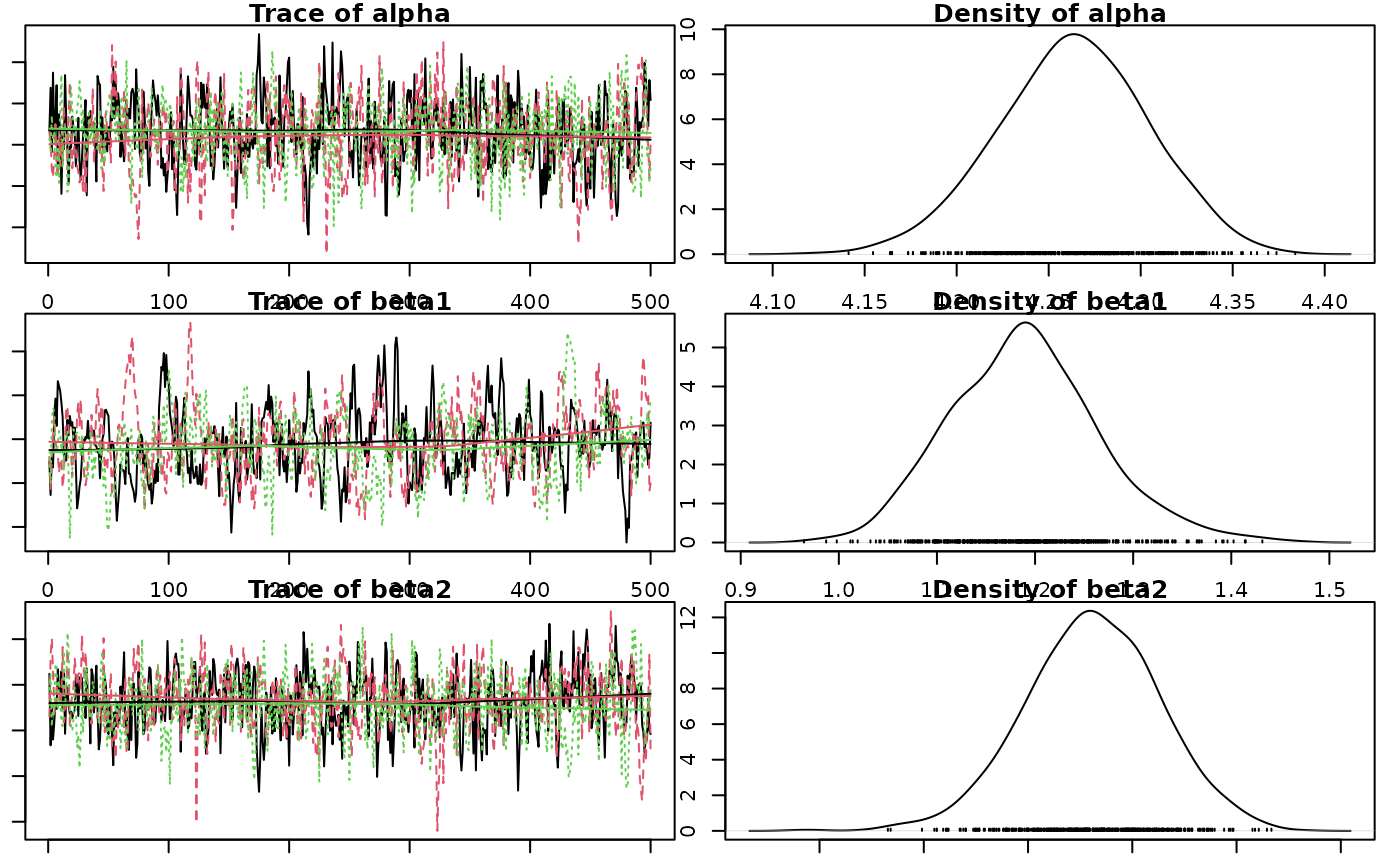
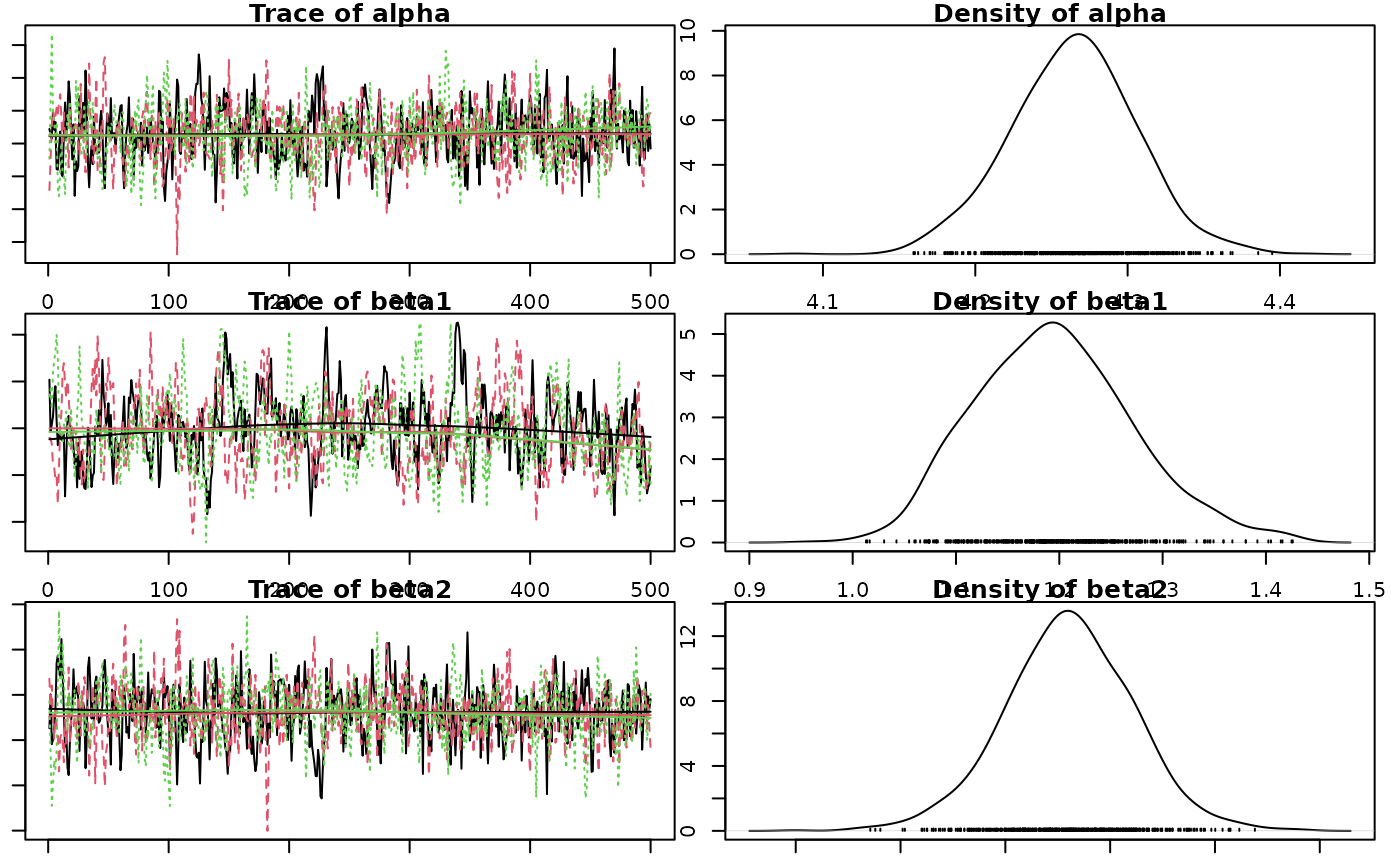
Deploying to gh-pages from @ poissonconsulting/jmbr@50605fdfb261132f518f0eca22c8e7b3936c75ee 🚀

diff --git a/articles/jmbr.html b/articles/jmbr.html
@@ -293,14 +293,14 @@ value and discarding all other values.</p>
 <span><span class="co">#&gt; <span style="color: #949494;"># A tibble: 1 × 8</span></span></span>
 <span><span class="co">#&gt;       n     K nchains niters nthin   ess  rhat converged</span></span>
 <span><span class="co">#&gt;   <span style="color: #949494; font-style: italic;">&lt;int&gt;</span> <span style="color: #949494; font-style: italic;">&lt;int&gt;</span>   <span style="color: #949494; font-style: italic;">&lt;int&gt;</span>  <span style="color: #949494; font-style: italic;">&lt;int&gt;</span> <span style="color: #949494; font-style: italic;">&lt;int&gt;</span> <span style="color: #949494; font-style: italic;">&lt;int&gt;</span> <span style="color: #949494; font-style: italic;">&lt;dbl&gt;</span> <span style="color: #949494; font-style: italic;">&lt;lgl&gt;</span>    </span></span>
-<span><span class="co">#&gt; <span style="color: #BCBCBC;">1</span>    40     6       3    500    10   237  1.01 TRUE</span></span>
+<span><span class="co">#&gt; <span style="color: #BCBCBC;">1</span>    40     6       3    500    10   291  1.03 TRUE</span></span>
 <span><span class="co">#&gt; Warning in value[[3L]](cond): beep() could not play the sound due to the following error:</span></span>
 <span><span class="co">#&gt; Error in play.default(x, rate, ...): no audio drivers are available</span></span>
 <span><span class="va">analysis</span> <span class="op">&lt;-</span> <span class="fu"><a href="https://rdrr.io/pkg/embr/man/reanalyse.html" class="external-link">reanalyse</a></span><span class="op">(</span><span class="va">analysis</span><span class="op">)</span></span>
 <span><span class="co">#&gt; <span style="color: #949494;"># A tibble: 1 × 8</span></span></span>
 <span><span class="co">#&gt;       n     K nchains niters nthin   ess  rhat converged</span></span>
 <span><span class="co">#&gt;   <span style="color: #949494; font-style: italic;">&lt;int&gt;</span> <span style="color: #949494; font-style: italic;">&lt;int&gt;</span>   <span style="color: #949494; font-style: italic;">&lt;int&gt;</span>  <span style="color: #949494; font-style: italic;">&lt;int&gt;</span> <span style="color: #949494; font-style: italic;">&lt;int&gt;</span> <span style="color: #949494; font-style: italic;">&lt;int&gt;</span> <span style="color: #949494; font-style: italic;">&lt;dbl&gt;</span> <span style="color: #949494; font-style: italic;">&lt;lgl&gt;</span>    </span></span>
-<span><span class="co">#&gt; <span style="color: #BCBCBC;">1</span>    40     6       3    500    10   237  1.01 TRUE</span></span>
+<span><span class="co">#&gt; <span style="color: #BCBCBC;">1</span>    40     6       3    500    10   291  1.03 TRUE</span></span>
 <span><span class="co">#&gt; Warning in value[[3L]](cond): beep() could not play the sound due to the following error:</span></span>
 <span><span class="co">#&gt; Error in play.default(x, rate, ...): no audio drivers are available</span></span></code></pre></div>
 <p><strong>Analysis Table:</strong></p>
@@ -350,12 +350,12 @@ between- and within-chain estimates for model parameters.
 <span><span class="co">#&gt; <span style="color: #949494;"># A tibble: 6 × 7</span></span></span>
 <span><span class="co">#&gt;   term        estimate     sd  zscore   lower   upper   pvalue</span></span>
 <span><span class="co">#&gt;   <span style="color: #949494; font-style: italic;">&lt;term&gt;</span>         <span style="color: #949494; font-style: italic;">&lt;dbl&gt;</span>  <span style="color: #949494; font-style: italic;">&lt;dbl&gt;</span>   <span style="color: #949494; font-style: italic;">&lt;dbl&gt;</span>   <span style="color: #949494; font-style: italic;">&lt;dbl&gt;</span>   <span style="color: #949494; font-style: italic;">&lt;dbl&gt;</span>    <span style="color: #949494; font-style: italic;">&lt;dbl&gt;</span></span></span>
-<span><span class="co">#&gt; <span style="color: #BCBCBC;">1</span> alpha         4.26   0.040<span style="text-decoration: underline;">9</span> 104.     4.18    4.34   0.000<span style="text-decoration: underline;">666</span></span></span>
-<span><span class="co">#&gt; <span style="color: #BCBCBC;">2</span> beta1         1.19   0.076<span style="text-decoration: underline;">2</span>  15.6    1.05    1.35   0.000<span style="text-decoration: underline;">666</span></span></span>
-<span><span class="co">#&gt; <span style="color: #BCBCBC;">3</span> beta2        -<span style="color: #BB0000;">0.019</span><span style="color: #BB0000; text-decoration: underline;">2</span> 0.032<span style="text-decoration: underline;">3</span>  -<span style="color: #BB0000;">0.598</span> -<span style="color: #BB0000;">0.083</span><span style="color: #BB0000; text-decoration: underline;">9</span>  0.043<span style="text-decoration: underline;">2</span> 0.566   </span></span>
-<span><span class="co">#&gt; <span style="color: #BCBCBC;">4</span> beta3        -<span style="color: #BB0000;">0.270</span>  0.039<span style="text-decoration: underline;">7</span>  -<span style="color: #BB0000;">6.81</span>  -<span style="color: #BB0000;">0.355</span>  -<span style="color: #BB0000;">0.198</span>  0.000<span style="text-decoration: underline;">666</span></span></span>
-<span><span class="co">#&gt; <span style="color: #BCBCBC;">5</span> log_sAnnual  -<span style="color: #BB0000;">2.25</span>   0.316   -<span style="color: #BB0000;">7.23</span>  -<span style="color: #BB0000;">3.04</span>   -<span style="color: #BB0000;">1.77</span>   0.000<span style="text-decoration: underline;">666</span></span></span>
-<span><span class="co">#&gt; <span style="color: #BCBCBC;">6</span> sAnnual       0.106  0.030<span style="text-decoration: underline;">8</span>   3.45   0.048<span style="text-decoration: underline;">0</span>  0.170  0.000<span style="text-decoration: underline;">666</span></span></span></code></pre></div>
+<span><span class="co">#&gt; <span style="color: #BCBCBC;">1</span> alpha         4.27   0.041<span style="text-decoration: underline;">6</span> 103.     4.18    4.35   0.000<span style="text-decoration: underline;">666</span></span></span>
+<span><span class="co">#&gt; <span style="color: #BCBCBC;">2</span> beta1         1.19   0.076<span style="text-decoration: underline;">1</span>  15.7    1.07    1.36   0.000<span style="text-decoration: underline;">666</span></span></span>
+<span><span class="co">#&gt; <span style="color: #BCBCBC;">3</span> beta2        -<span style="color: #BB0000;">0.019</span><span style="color: #BB0000; text-decoration: underline;">7</span> 0.030<span style="text-decoration: underline;">9</span>  -<span style="color: #BB0000;">0.641</span> -<span style="color: #BB0000;">0.082</span><span style="color: #BB0000; text-decoration: underline;">6</span>  0.040<span style="text-decoration: underline;">2</span> 0.506   </span></span>
+<span><span class="co">#&gt; <span style="color: #BCBCBC;">4</span> beta3        -<span style="color: #BB0000;">0.272</span>  0.038<span style="text-decoration: underline;">8</span>  -<span style="color: #BB0000;">7.05</span>  -<span style="color: #BB0000;">0.357</span>  -<span style="color: #BB0000;">0.205</span>  0.000<span style="text-decoration: underline;">666</span></span></span>
+<span><span class="co">#&gt; <span style="color: #BCBCBC;">5</span> log_sAnnual  -<span style="color: #BB0000;">2.23</span>   0.494   -<span style="color: #BB0000;">4.65</span>  -<span style="color: #BB0000;">3.11</span>   -<span style="color: #BB0000;">1.73</span>   0.000<span style="text-decoration: underline;">666</span></span></span>
+<span><span class="co">#&gt; <span style="color: #BCBCBC;">6</span> sAnnual       0.108  0.034<span style="text-decoration: underline;">1</span>   3.19   0.044<span style="text-decoration: underline;">4</span>  0.177  0.000<span style="text-decoration: underline;">666</span></span></span></code></pre></div>
 <p>The estimate is the <strong>median</strong> by default.</p>
 <p>The zscore is <span class="math inline">\(mean / sd\)</span>.</p>
 <div class="sourceCode" id="cb12"><pre class="downlit sourceCode r">
@@ -363,12 +363,12 @@ between- and within-chain estimates for model parameters.
 <span><span class="co">#&gt; <span style="color: #949494;"># A tibble: 6 × 5</span></span></span>
 <span><span class="co">#&gt;   term        estimate   lower   upper svalue</span></span>
 <span><span class="co">#&gt;   <span style="color: #949494; font-style: italic;">&lt;term&gt;</span>         <span style="color: #949494; font-style: italic;">&lt;dbl&gt;</span>   <span style="color: #949494; font-style: italic;">&lt;dbl&gt;</span>   <span style="color: #949494; font-style: italic;">&lt;dbl&gt;</span>  <span style="color: #949494; font-style: italic;">&lt;dbl&gt;</span></span></span>
-<span><span class="co">#&gt; <span style="color: #BCBCBC;">1</span> alpha         4.26    4.18    4.34   10.6  </span></span>
-<span><span class="co">#&gt; <span style="color: #BCBCBC;">2</span> beta1         1.19    1.05    1.35   10.6  </span></span>
-<span><span class="co">#&gt; <span style="color: #BCBCBC;">3</span> beta2        -<span style="color: #BB0000;">0.019</span><span style="color: #BB0000; text-decoration: underline;">2</span> -<span style="color: #BB0000;">0.083</span><span style="color: #BB0000; text-decoration: underline;">9</span>  0.043<span style="text-decoration: underline;">2</span>  0.822</span></span>
-<span><span class="co">#&gt; <span style="color: #BCBCBC;">4</span> beta3        -<span style="color: #BB0000;">0.270</span>  -<span style="color: #BB0000;">0.355</span>  -<span style="color: #BB0000;">0.198</span>  10.6  </span></span>
-<span><span class="co">#&gt; <span style="color: #BCBCBC;">5</span> log_sAnnual  -<span style="color: #BB0000;">2.25</span>   -<span style="color: #BB0000;">3.04</span>   -<span style="color: #BB0000;">1.77</span>   10.6  </span></span>
-<span><span class="co">#&gt; <span style="color: #BCBCBC;">6</span> sAnnual       0.106   0.048<span style="text-decoration: underline;">0</span>  0.170  10.6</span></span></code></pre></div>
+<span><span class="co">#&gt; <span style="color: #BCBCBC;">1</span> alpha         4.27    4.18    4.35   10.6  </span></span>
+<span><span class="co">#&gt; <span style="color: #BCBCBC;">2</span> beta1         1.19    1.07    1.36   10.6  </span></span>
+<span><span class="co">#&gt; <span style="color: #BCBCBC;">3</span> beta2        -<span style="color: #BB0000;">0.019</span><span style="color: #BB0000; text-decoration: underline;">7</span> -<span style="color: #BB0000;">0.082</span><span style="color: #BB0000; text-decoration: underline;">6</span>  0.040<span style="text-decoration: underline;">2</span>  0.984</span></span>
+<span><span class="co">#&gt; <span style="color: #BCBCBC;">4</span> beta3        -<span style="color: #BB0000;">0.272</span>  -<span style="color: #BB0000;">0.357</span>  -<span style="color: #BB0000;">0.205</span>  10.6  </span></span>
+<span><span class="co">#&gt; <span style="color: #BCBCBC;">5</span> log_sAnnual  -<span style="color: #BB0000;">2.23</span>   -<span style="color: #BB0000;">3.11</span>   -<span style="color: #BB0000;">1.73</span>   10.6  </span></span>
+<span><span class="co">#&gt; <span style="color: #BCBCBC;">6</span> sAnnual       0.108   0.044<span style="text-decoration: underline;">4</span>  0.177  10.6</span></span></code></pre></div>
 <p>The s-value is the <strong>suprisal</strong> value, which is a
 measure of directionality with respect to zero.</p>
 <p>The s-value is zero (unsurprising) when <em>p-value</em> = 1.0 and
